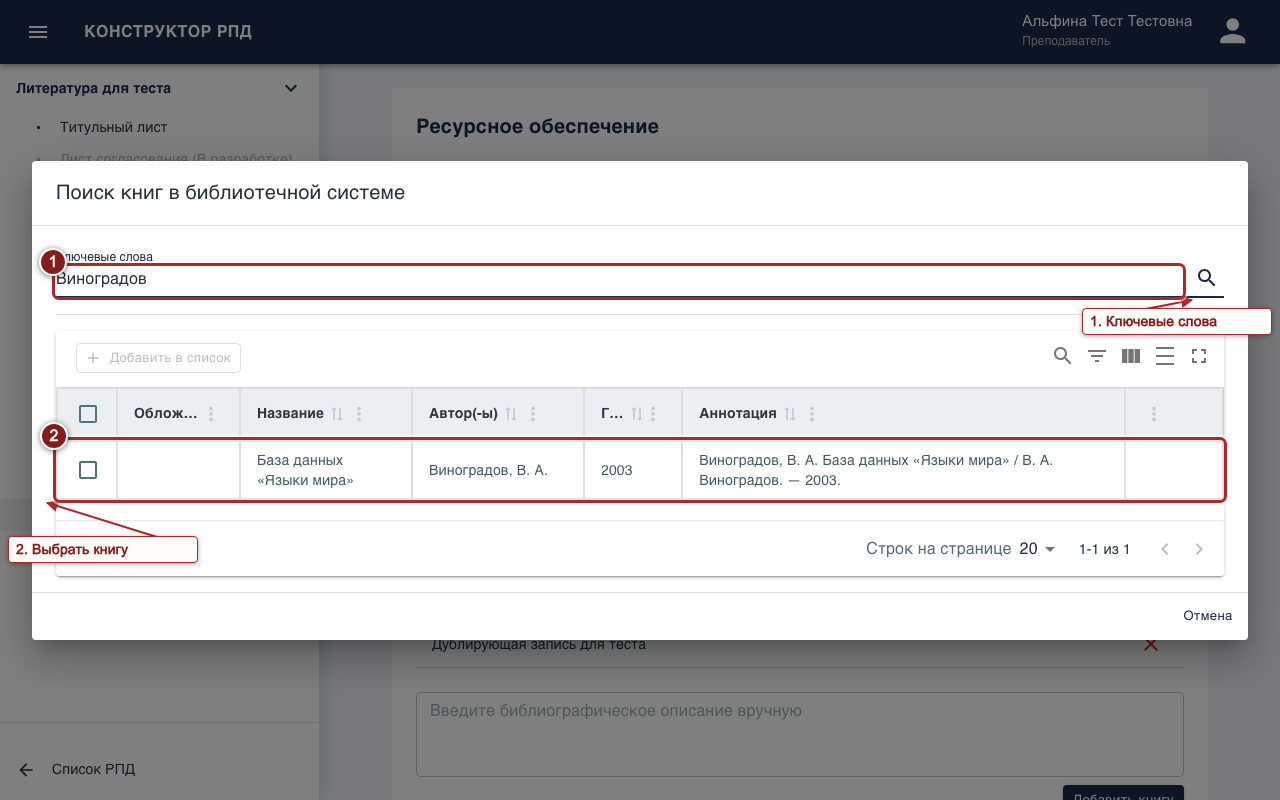
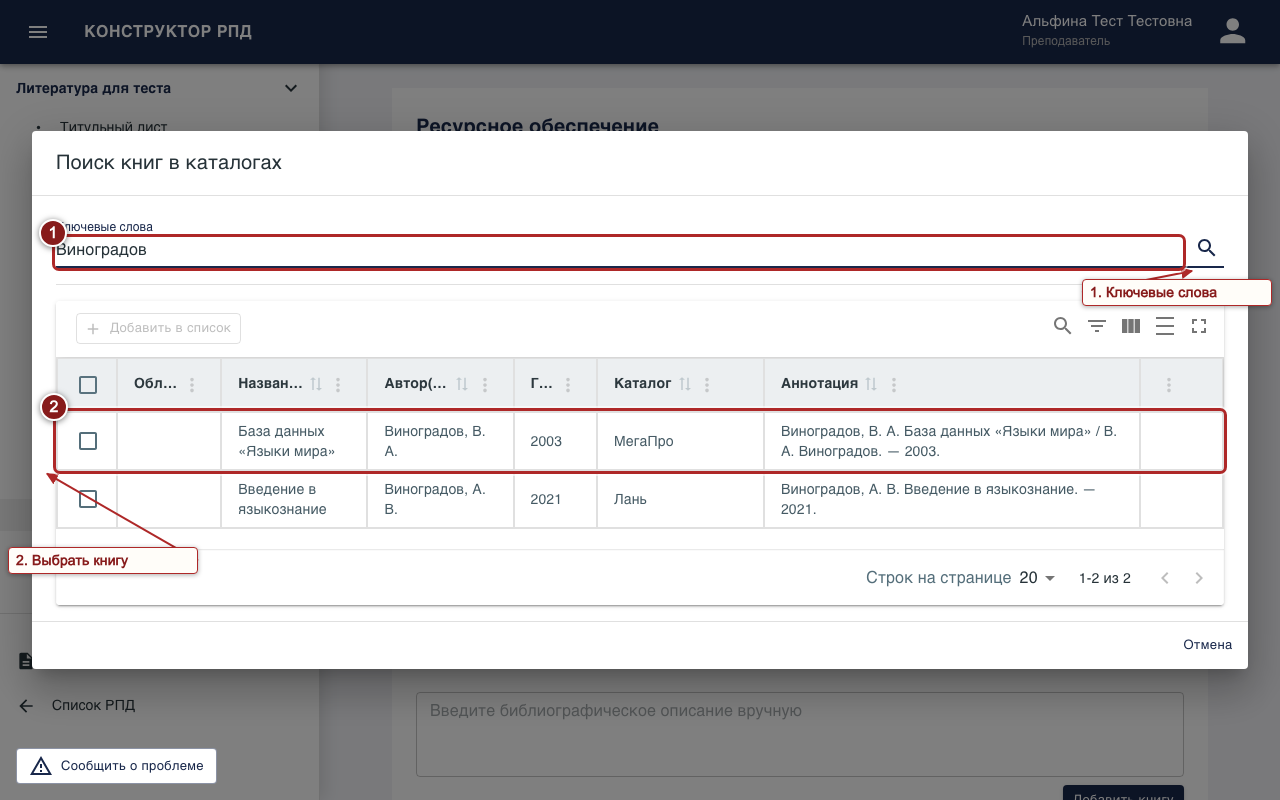
Обновить справку по поиску литературы
Проблема
Справка описывала выбор отдельного каталога.

Причина
Единый поиск изменил окно и формат выдачи.

Что сделано
Обновлены пользовательская инструкция, снимок диалога, его сценарий и описание API.

Как проверить
Открыть раздел литературы в справке и сверить его с диалогом поиска.

diff --git a/rpd-client-ts/public/docs/index.html b/rpd-client-ts/public/docs/index.html
@@ -115,8 +115,8 @@
           <figcaption>Часы: 1 — заполните темы; 2 — сравните суммы с планом 1С.</figcaption></figure>
       </section>
       <section class="sub-chapter" id="books"><h3>Литература</h3>
-        <p>В разделе <strong>«Ресурсное обеспечение»</strong> нажмите <strong>«Найти книги в библиотечной системе»</strong>, введите ключевые слова, выберите результаты и нажмите <strong>«Добавить в список»</strong>. Если результатов слишком много, уточните запрос автором или годом издания. Библиографическое описание можно также ввести вручную и добавить кнопкой <strong>«Добавить книгу»</strong>.</p>
-        <figure class="figure"><img src="media/books-search.png" alt="Диалог поиска книг в библиотечной системе с результатами" width="1280" height="800" loading="lazy" />
+        <p>В разделе <strong>«Ресурсное обеспечение»</strong> нажмите <strong>«Найти книги в каталогах»</strong> и введите ключевые слова. Поиск охватывает МегаПро, Лань и Юрайт. Название каталога указано в каждой строке результатов. Выберите книги и нажмите <strong>«Добавить в список»</strong>. Если результатов слишком много, уточните запрос автором или годом издания. Библиографическое описание можно также ввести вручную и добавить кнопкой <strong>«Добавить книгу»</strong>.</p>
+        <figure class="figure"><img src="media/books-search.png" alt="Диалог поиска книг в каталогах с результатами" width="1280" height="800" loading="lazy" />
           <figcaption>Литература: 1 — введите ключевые слова; 2 — выберите книгу из результатов.</figcaption></figure>
       </section>
       <section class="sub-chapter" id="questions"><h3>Вопросы ФОС и готовность</h3>

diff --git a/e2e/tests/docs/screenshots.spec.ts b/e2e/tests/docs/screenshots.spec.ts
@@ -303,14 +303,21 @@ test('снимки инструкции на синтетических данн
           title: 'База данных «Языки мира»', author: 'Виноградов, В. А.', year: 2003,
           url: null, thumb: null,
           biblio: 'Виноградов, В. А. База данных «Языки мира» / В. А. Виноградов. — 2003.',
+          source: 'megapro',
+        }, {
+          id: 'lan:docs-book',
+          title: 'Введение в языкознание', author: 'Виноградов, А. В.', year: 2021,
+          url: null, thumb: null,
+          biblio: 'Виноградов, А. В. Введение в языкознание. — 2021.',
+          source: 'lan',
         }], truncated: false }),
       });
     });
     await teacherPage.getByRole('button', { name: 'Список РПД' }).click();
     await openTemplateFromTeacherList(teacherPage, teacherPage.getByRole('row').filter({ hasText: 'Литература для теста' }));
     await teacherPage.getByRole('button', { name: 'Ресурсное обеспечение' }).click();
-    await teacherPage.getByRole('button', { name: 'Найти книги в библиотечной системе' }).first().click();
-    const booksDialog = teacherPage.getByRole('dialog', { name: 'Поиск книг в библиотечной системе' });
+    await teacherPage.getByRole('button', { name: 'Найти книги в каталогах' }).first().click();
+    const booksDialog = teacherPage.getByRole('dialog', { name: 'Поиск книг в каталогах' });
     const query = booksDialog.getByRole('textbox', { name: 'Ключевые слова' });
     await query.fill('Виноградов');
     await query.press('Enter');

diff --git a/rpd-server/README.md b/rpd-server/README.md
@@ -4,7 +4,9 @@ Express 5 и PostgreSQL. Запуск, переменные окружения, 
 
 ## Поиск литературы в ЭБС
 
-`POST /api/find-books` принимает `{bookName, source?}`. Источники: `megapro` (также при отсутствии `source`), `lan`, `urait`. Доступ сохраняется для авторизованных преподавателей, РОП и администраторов. Ответ — прежний `{books, truncated}`; добавление и ручной ввод литературы используют прежнее сохранение РПД.
+`POST /api/find-books` принимает `{bookName, source?}`. По умолчанию поиск запрашивает `megapro`, `lan` и `urait` параллельно. С параметром `source` можно запросить один каталог. В ответе `{books, truncated, unavailableSources?}` каждая книга содержит `source`. При частичном отказе ответ содержит результаты доступных каталогов и список недоступных в `unavailableSources`. При отказе всех каталогов сервер возвращает 502.
+
+Результаты объединяются, дубликаты удаляются в пределах одного каталога, затем книги ранжируются по названию, автору и году. Ответ содержит до 100 книг. `truncated` указывает, что сработал общий лимит или ограничение каталога.
 
 Переменные задаются только в окружении сервера (пустые примеры — в `.env.example`):
 
@@ -12,9 +14,11 @@ Express 5 и PostgreSQL. Запуск, переменные окружения, 
 - `EBS_URAIT_PARTNER_ID` — `partner_id` организации для partner API Юрайт.
 - `EBS_URAIT_API_KEY` — ключ каталога `token_api` / `api_key`. Старые `pid/token` для SSO не подходят.
 
-Без реквизитов выбранный источник возвращает понятную ошибку настройки; MegaPro работает как прежде. Секреты не передаются клиенту. Бесшовный вход и регистрация не реализованы.
+ЭБС без реквизитов отмечается как недоступная. МегаПро доступен без этих переменных. Секреты остаются на сервере.
 
-«Лань»: фиксированный `https://openapi.e.lanbook.com/1.0/resource/book`, заголовок `X-Auth-Token`, явные `limit/offset/fields`. По [официальному контракту](https://developers.lanbook.com/open-api/metadata) это весь каталог подписки, а `count` — общее число книг. Страницы до 1000 записей загружаются последовательно в один снимок с проверкой неизменного count, полноты и уникальности ID. Параллельные поиски разделяют загрузку. Один снимок в памяти живёт 15 минут, предел — 100 000 книг / 64 МиБ нормализованных данных / 200 страниц; просроченный снимок не выдаётся. Неудача не публикует частичный каталог, повторная загрузка возможна через 30 секунд. Общий срок загрузки — 60 секунд, запрос — 10 секунд, ответ страницы — до 4 МиБ. Локальный поиск требует все слова запроса в названии/авторе (без учёта регистра и ё/е); затем применяются прежние дедупликация и ранжирование. Выдаётся до 100 книг с `truncated`. API не даёт версии снимка: изменение данных без изменения count и ID во время обхода обнаружить нельзя.
+«Лань»: фиксированный `https://openapi.e.lanbook.com/1.0/resource/book`, заголовок `X-Auth-Token`, явные `limit/offset/fields`. API возвращает весь каталог подписки и общее число книг в `count`. [Официальный контракт](https://developers.lanbook.com/open-api/metadata).
+
+Страницы до 1000 записей загружаются последовательно в один снимок с проверкой неизменного `count`, полноты и уникальности ID. Параллельные поиски используют один снимок. Он живёт в памяти 15 минут и ограничен 100 000 книг, 64 МиБ нормализованных данных и 200 страницами. После неудачной загрузки повтор возможен через 30 секунд. Общий срок загрузки составляет 50 секунд, запрос ограничен 10 секундами, ответ страницы — 4 МиБ. Локальный поиск ищет все слова запроса в названии, авторе или годе без учёта регистра и различия ё/е.
 
 Юрайт: фиксированный `https://urait.ru/partner-api/contents`, подпись `md5("partner_id:api_key:time")`, Unix-время в секундах, `query`, `limit=100`, `offset=0`, усечение по `total`. Контракт — [OpenAPI 1.1](https://api.swaggerhub.com/apis/itpm_urait/UraitOpenAPI/1.1). Простое описание строится из названия, авторов, издательства, года и ISBN; готовая библиографическая запись в API отсутствует.
 
